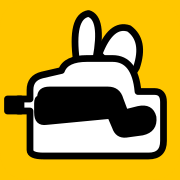
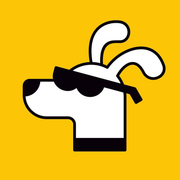
refactor: update DawgLogo component and animations, remove SVG assets
- Replaced the SVG logo with a raster image for consistent rendering across surfaces.
- Updated the DawgLogo component to support hover animations with a new tilt effect.
- Removed the old SVG logo files and adjusted icon generation scripts to use the new raster source.
- Enhanced the DawgLoader and modal components to utilize the updated DawgLogo.

diff --git a/scripts/generate-icons.ts b/scripts/generate-icons.ts
@@ -1,8 +1,10 @@
 /**
  * Icon generation pipeline.
  *
- * Renders PNG variants + favicon.ico from the canonical public/logo.svg.
- * Idempotent — re-run any time the SVG changes.
+ * Canonical source: public/logo-source.png — the exact AlphaDawg brand mark
+ * (612×612 raster). All icon variants are resized from this single file so
+ * every surface shows the identical logo. Idempotent: safe to re-run whenever
+ * the source changes.
  *
  * Usage: npm run setup:icons
  */
@@ -13,48 +15,47 @@ import { fileURLToPath } from "node:url";
 
 const __dirname = dirname(fileURLToPath(import.meta.url));
 const PUBLIC_DIR = join(__dirname, "..", "public");
-const SOURCE = join(PUBLIC_DIR, "logo.svg");
+const APP_DIR = join(__dirname, "..", "app");
+const SOURCE = join(PUBLIC_DIR, "logo-source.png");
 const DAWG_YELLOW = "#FFC700";
 
 type Target = {
   name: string;
-  size: number | { width: number; height: number };
-  background?: string; // hex; undefined = transparent
-  padding?: number;    // extra padding around logo in px (for OG image)
+  dir: "public" | "app";
+  size: number;
 };
 
 const TARGETS: Target[] = [
-  { name: "apple-touch-icon.png", size: 180, background: DAWG_YELLOW },
-  { name: "icon-192.png", size: 192, background: DAWG_YELLOW },
-  { name: "icon-512.png", size: 512, background: DAWG_YELLOW },
-  { name: "logo.png", size: 512 }, // transparent background
-  { name: "logo-square.png", size: 512, background: DAWG_YELLOW },
+  // Canonical brand copies in public/
+  { name: "logo.png", dir: "public", size: 612 },        // identical copy of source
+  { name: "logo-square.png", dir: "public", size: 512 },
+  { name: "apple-touch-icon.png", dir: "public", size: 180 },
+  { name: "icon-192.png", dir: "public", size: 192 },
+  { name: "icon-512.png", dir: "public", size: 512 },
 ];
 
-async function renderPng(svg: Buffer, target: Target): Promise<void> {
-  const out = join(PUBLIC_DIR, target.name);
-  const size = typeof target.size === "number"
-    ? { width: target.size, height: target.size }
-    : target.size;
+async function renderPng(source: Buffer, target: Target): Promise<void> {
+  const baseDir = target.dir === "public" ? PUBLIC_DIR : APP_DIR;
+  const out = join(baseDir, target.name);
 
-  let pipeline = sharp(svg, { density: 400 }).resize(size.width, size.height, {
-    fit: "contain",
-    background: target.background ?? { r: 0, g: 0, b: 0, alpha: 0 },
-  });
+  await sharp(source)
+    .resize(target.size, target.size, {
+      fit: "contain",
+      background: DAWG_YELLOW,
+    })
+    .flatten({ background: DAWG_YELLOW })
+    .png()
+    .toFile(out);
 
-  if (target.background) {
-    pipeline = pipeline.flatten({ background: target.background });
-  }
-
-  await pipeline.png().toFile(out);
-  console.log(`  ✓ ${target.name} (${size.width}x${size.height})`);
+  console.log(`  ✓ ${target.dir}/${target.name} (${target.size}x${target.size})`);
 }
 
-async function renderOgImage(svg: Buffer): Promise<void> {
-  // 1200x630 OG card: yellow background with centered logo
-  const logoSize = 440;
-  const logoPng = await sharp(svg, { density: 600 })
-    .resize(logoSize, logoSize, { fit: "contain", background: { r: 0, g: 0, b: 0, alpha: 0 } })
+async function renderOgImage(source: Buffer): Promise<void> {
+  // 1200x630 social card: yellow background with the dawg logo centered
+  const logoSize = 500;
+  const logoPng = await sharp(source)
+    .resize(logoSize, logoSize, { fit: "contain", background: DAWG_YELLOW })
+    .flatten({ background: DAWG_YELLOW })
     .png()
     .toBuffer();
 
@@ -70,12 +71,11 @@ async function renderOgImage(svg: Buffer): Promise<void> {
     .png()
     .toFile(join(PUBLIC_DIR, "og-image.png"));
 
-  console.log("  ✓ og-image.png (1200x630)");
+  console.log("  ✓ public/og-image.png (1200x630)");
 }
 
-async function renderFavicon(svg: Buffer): Promise<void> {
-  // Generate a 32x32 PNG, wrap it in a minimal ICO container.
-  const png32 = await sharp(svg, { density: 400 })
+async function renderFavicon(source: Buffer): Promise<void> {
+  const png32 = await sharp(source)
     .resize(32, 32, { fit: "contain", background: DAWG_YELLOW })
     .flatten({ background: DAWG_YELLOW })
     .png()
@@ -83,7 +83,7 @@ async function renderFavicon(svg: Buffer): Promise<void> {
 
   const ico = pngToIco(png32, 32);
   await writeFile(join(PUBLIC_DIR, "favicon.ico"), ico);
-  console.log("  ✓ favicon.ico (32x32)");
+  console.log("  ✓ public/favicon.ico (32x32)");
 }
 
 /**
@@ -111,20 +111,20 @@ function pngToIco(png: Buffer, size: number): Buffer {
 
 async function main(): Promise<void> {
   console.log(`[icons] reading ${SOURCE}`);
-  const svg = await readFile(SOURCE);
+  const source = await readFile(SOURCE);
 
-  console.log("[icons] rendering PNG variants");
+  console.log("[icons] rendering size variants");
   for (const t of TARGETS) {
-    await renderPng(svg, t);
+    await renderPng(source, t);
   }
 
   console.log("[icons] rendering OG card");
-  await renderOgImage(svg);
+  await renderOgImage(source);
 
   console.log("[icons] rendering favicon.ico");
-  await renderFavicon(svg);
+  await renderFavicon(source);
 
-  console.log("[icons] done — 7 files written to public/");
+  console.log("[icons] done");
 }
 
 main().catch((err) => {

diff --git a/components/dawg-logo.tsx b/components/dawg-logo.tsx
@@ -1,28 +1,31 @@
+import Image from "next/image";
+
 interface DawgLogoProps {
   className?: string;
-  /** Adds the `dawg-logo-animated` class which enables hover ear-wiggle. */
+  /** Adds the `dawg-logo-animated` class which enables hover tilt. */
   animated?: boolean;
-  /** Omit the yellow rounded background (for use over pre-colored surfaces). */
-  transparent?: boolean;
   /** Accessible label; defaults to "AlphaDawg". */
   title?: string;
+  /** Rendered pixel size. Defaults to 64. Keep this close to the displayed
+   *  size so Next.js picks the right raster bucket. */
+  size?: number;
 }
 
 /**
- * AlphaDawg brand mark. Dog head with shades on yellow.
+ * AlphaDawg brand mark.
  *
- * Class hooks used by animations in `globals.css`:
- * - `.dawg-ears`    — ear-wiggle on hover
- * - `.dawg-glasses` — glint/shine
+ * Renders the canonical logo raster from `public/logo.png` — the single source
+ * of truth shared with favicon, apple-touch-icon, and OG card. This is a raster
+ * by design so every surface displays the exact same artwork.
  */
 export function DawgLogo({
   className,
   animated = false,
-  transparent = false,
   title = "AlphaDawg",
+  size = 64,
 }: DawgLogoProps) {
   const classes = [
-    "dawg-logo",
+    "dawg-logo select-none",
     animated ? "dawg-logo-animated" : "",
     className ?? "",
   ]
@@ -30,43 +33,14 @@ export function DawgLogo({
     .join(" ");
 
   return (
-    <svg
-      viewBox="0 0 240 240"
-      xmlns="http://www.w3.org/2000/svg"
-      role="img"
-      aria-label={title}
+    <Image
+      src="/logo.png"
+      alt={title}
+      width={size}
+      height={size}
+      priority
+      draggable={false}
       className={classes}
-    >
-      <title>{title}</title>
-      {!transparent && <rect width="240" height="240" rx="36" fill="#FFC700" />}
-
-      <g
-        stroke="#000000"
-        strokeWidth="9"
-        strokeLinejoin="round"
-        strokeLinecap="round"
-      >
-        <g className="dawg-ears" fill="#FFFFFF">
-          <path d="M102 82 Q94 22 118 18 Q138 24 128 78 Z" />
-          <path d="M132 72 Q148 30 172 38 Q194 54 182 90 Q174 106 156 98 Z" />
-        </g>
-
-        <path
-          fill="#FFFFFF"
-          d="M40 200 L40 148 L24 148 L24 132 L40 132 L40 120 Q40 104 56 100 L82 94 Q88 78 116 78 L150 78 Q180 78 184 122 L206 122 Q218 122 218 136 L218 188 Q218 208 198 208 L58 208 Q40 208 40 200 Z"
-        />
-        <rect x="10" y="132" width="18" height="16" fill="#000000" />
-      </g>
-
-      <g
-        className="dawg-glasses"
-        fill="#000000"
-        stroke="#000000"
-        strokeWidth="5"
-        strokeLinejoin="round"
-      >
-        <path d="M52 130 Q52 118 66 118 L144 118 Q158 118 162 132 L168 148 L184 144 Q202 140 206 156 Q208 174 190 178 L168 181 Q156 182 152 170 L146 156 L62 164 Q48 166 48 150 L48 138 Q48 130 52 130 Z" />
-      </g>
-    </svg>
+    />
   );
 }

diff --git a/components/telegram-modal.tsx b/components/telegram-modal.tsx
@@ -1,6 +1,7 @@
 "use client";
 
 import { useState, useEffect, useCallback } from "react";
+import { DawgLogo } from "./dawg-logo";
 
 const BOT_USERNAME = process.env.NEXT_PUBLIC_TELEGRAM_BOT_USERNAME ?? "ETHGlobal_Cannes_2026_Bot";
 const CODE_TTL_MS = 10 * 60 * 1000; // 10 minutes
@@ -67,18 +68,7 @@ export function TelegramModal({ linkCode, onRefresh }: TelegramModalProps) {
       <div className="w-full max-w-md mx-4 bg-void-900 border border-void-800 rounded-2xl p-8 space-y-6">
         {/* Header */}
         <div className="text-center space-y-2">
-          <div className="text-4xl">
-            <svg viewBox="0 0 120 120" className="w-16 h-16 mx-auto" xmlns="http://www.w3.org/2000/svg">
-              <rect x="4" y="4" width="112" height="112" rx="28" fill="#0C0A09"/>
-              <path d="M28 92 L42 28 L60 48 L78 28 L92 92 Z" fill="#7F1D1D"/>
-              <path d="M34 92 L46 36 L60 52 L74 36 L86 92 Z" fill="#DC2626"/>
-              <circle cx="50" cy="54" r="4.5" fill="#FBBF24"/>
-              <circle cx="70" cy="54" r="4.5" fill="#FBBF24"/>
-              <circle cx="50" cy="54" r="2" fill="#0C0A09"/>
-              <circle cx="70" cy="54" r="2" fill="#0C0A09"/>
-              <path d="M55 69 L60 73 L65 69" fill="none" stroke="#FBBF24" strokeWidth="2" strokeLinecap="round"/>
-            </svg>
-          </div>
+          <DawgLogo size={128} className="w-16 h-16 mx-auto rounded-2xl" />
           <h2 className="text-xl font-bold text-void-100">Connect Telegram</h2>
           <p className="text-sm text-void-400">
             Your agent reports hunts, debates, and proofs via Telegram. This step is required.

diff --git a/components/funding-modal.tsx b/components/funding-modal.tsx
@@ -1,5 +1,7 @@
 "use client";
 
+import { DawgLogo } from "./dawg-logo";
+
 interface FundingModalProps {
   proxyAddress: string;
   onNavigate: (href: string) => void;
@@ -11,18 +13,7 @@ export function FundingModal({ proxyAddress, onNavigate }: FundingModalProps) {
       <div className="w-full max-w-md mx-4 bg-void-900 border border-void-800 rounded-2xl p-8 space-y-6">
         {/* Header */}
         <div className="text-center space-y-2">
-          <div className="text-4xl">
-            <svg viewBox="0 0 120 120" className="w-16 h-16 mx-auto" xmlns="http://www.w3.org/2000/svg">
-              <rect x="4" y="4" width="112" height="112" rx="28" fill="#0C0A09"/>
-              <path d="M28 92 L42 28 L60 48 L78 28 L92 92 Z" fill="#7F1D1D"/>
-              <path d="M34 92 L46 36 L60 52 L74 36 L86 92 Z" fill="#DC2626"/>
-              <circle cx="50" cy="54" r="4.5" fill="#FBBF24"/>
-              <circle cx="70" cy="54" r="4.5" fill="#FBBF24"/>
-              <circle cx="50" cy="54" r="2" fill="#0C0A09"/>
-              <circle cx="70" cy="54" r="2" fill="#0C0A09"/>
-              <path d="M55 69 L60 73 L65 69" fill="none" stroke="#FBBF24" strokeWidth="2" strokeLinecap="round"/>
-            </svg>
-          </div>
+          <DawgLogo size={128} className="w-16 h-16 mx-auto rounded-2xl" />
           <h2 className="text-xl font-bold text-void-100">Fund Your Agent Wallet</h2>
           <p className="text-sm text-void-400">
             Your agent needs USDC to hire specialists. Each hunt costs $0.003 (3 specialists x $0.001).

diff --git a/app/globals.css b/app/globals.css
@@ -205,27 +205,21 @@ body {
   animation: shineSweep 1200ms ease-out;
 }
 
-/* Logo ear wiggle on hover */
-@keyframes earWiggle {
-  0%, 100% { transform: rotate(0deg); }
-  25%      { transform: rotate(-6deg); }
-  60%      { transform: rotate(4deg); }
-  80%      { transform: rotate(-2deg); }
+/* Logo hover — whole-image tilt + lift (the logo is a raster, so we animate
+   the element itself rather than individual ears) */
+@keyframes dawgTilt {
+  0%, 100% { transform: rotate(0deg) scale(1); }
+  25%      { transform: rotate(-5deg) scale(1.05); }
+  60%      { transform: rotate(3deg)  scale(1.04); }
+  80%      { transform: rotate(-1deg) scale(1.02); }
 }
 
-.dawg-logo-animated .dawg-ears {
-  transform-origin: 130px 82px;
-  transform-box: fill-box;
+.dawg-logo-animated {
+  transition: transform 180ms ease-out;
+  transform-origin: center bottom;
 }
-.dawg-logo-animated:hover .dawg-ears {
-  animation: earWiggle 800ms ease-in-out;
-}
-
-/* Logo glasses glint — subtle highlight sweep every few seconds */
-@keyframes glintBlink {
-  0%, 85%, 100% { opacity: 0; transform: translateX(0); }
-  88%           { opacity: 0.6; }
-  95%           { opacity: 0; transform: translateX(16px); }
+.dawg-logo-animated:hover {
+  animation: dawgTilt 800ms ease-in-out;
 }
 
 /* =========================================================================

diff --git a/app/layout.tsx b/app/layout.tsx
@@ -8,13 +8,13 @@ const inter = Inter({ variable: "--font-inter", subsets: ["latin"] });
 const jetbrainsMono = JetBrains_Mono({ variable: "--font-jetbrains-mono", subsets: ["latin"] });
 
 export const metadata: Metadata = {
+  metadataBase: new URL(process.env.NEXT_PUBLIC_SITE_URL ?? "http://localhost:3000"),
   title: "AlphaDawg",
   description:
     "Your AI pack hunts alpha. Provable investment decisions with adversarial debate, sealed inference, and on-chain verification.",
   icons: {
     icon: [
       { url: "/favicon.ico", sizes: "any" },
-      { url: "/logo.svg", type: "image/svg+xml" },
       { url: "/icon-192.png", type: "image/png", sizes: "192x192" },
       { url: "/icon-512.png", type: "image/png", sizes: "512x512" },
     ],

diff --git a/components/dawg-loader.tsx b/components/dawg-loader.tsx
@@ -98,12 +98,12 @@ export function DawgLoader({
 
           {/* The coin itself — logo inside a circular mask */}
           <div
-            className={`dawg-coin w-28 h-28 rounded-full overflow-hidden ${
+            className={`dawg-coin w-28 h-28 rounded-full overflow-hidden bg-dawg-500 ${
               isBlasting ? "dawg-coin-blast" : "dawg-coin-spin"
             }`}
             onAnimationEnd={isBlasting ? handleBlastEnd : undefined}
           >
-            <DawgLogo className="w-full h-full" />
+            <DawgLogo size={256} className="w-full h-full object-cover" />
           </div>
         </div>
 
